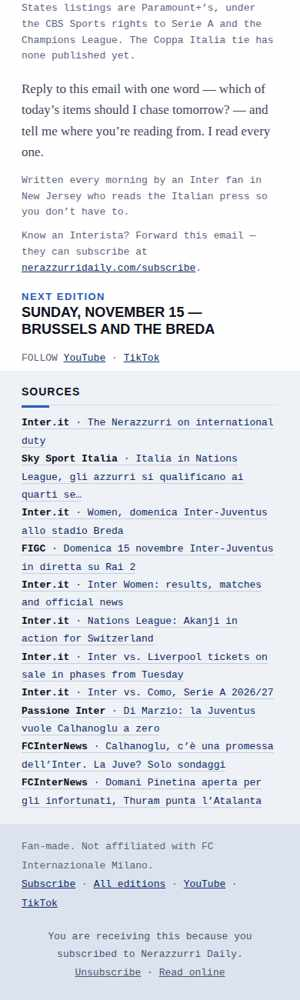
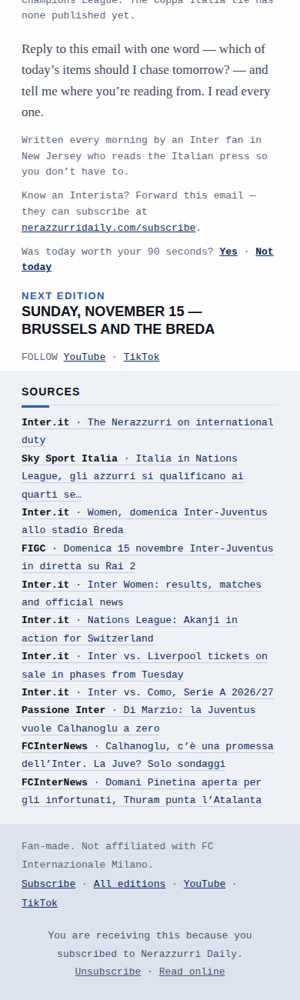
Edition No. 74 — Italy need only a draw in Brussels on Sunday
Built by the edition workflow, run 43667057809.

diff --git a/review/edition-74/email-74.html b/review/edition-74/email-74.html
@@ -6,7 +6,7 @@
 <div style="display:none;max-height:0;overflow:hidden;opacity:0;">Inter Women host Juventus at the Breda on Sunday with free entry and Rai 2 coverage, and Manuel Akanji&#x27;s draw in Maribor sent Switzerland up to League A.</div>
 <table role="presentation" width="100%" cellpadding="0" cellspacing="0" border="0" style="background:#DCE3EF;"><tr><td align="center" style="padding:0;">
 <table role="presentation" width="644" cellpadding="0" cellspacing="0" border="0" style="width:100%;max-width:644px;background:#ffffff;">
-<tr><td style="background:#06080F;padding:14px 28px;"><table role="presentation" width="100%" cellpadding="0" cellspacing="0" border="0"><tr><td style="font-family:Arial,Helvetica,sans-serif;font-weight:bold;font-size:17px;letter-spacing:.4px;color:#ffffff;">NERAZZURRI <span style="color:#8FB2F0;">DAILY</span></td><td align="right" style="font-family:'Courier New',Courier,monospace;font-size:13px;color:#8FB2F0;">Edition No. 74 · Sat, Nov 14 · <a href="https://www.nerazzurridaily.com/p/edition-74/" style="color:#ffffff;text-decoration:underline;">View online</a></td></tr></table></td></tr><tr><td style="padding:0;font-size:0;line-height:0;"><img src="https://www.nerazzurridaily.com/assets/mast/edition-74.png" width="644" alt="Nerazzurri Daily Edition No. 74, Saturday, November 14, 2026 — Italy need only a draw in Brussels on Sunday" style="display:block;width:100%;max-width:644px;height:auto;border:0;"></td></tr><tr><td style="background:#EEF1F6;padding:16px 28px;"><p style="margin:0px 0 10px;font-family:Georgia,'Times New Roman',serif;font-size:17px;line-height:1.6;color:#3D465C;font-weight:normal;">Italy finish their UEFA Nations League group <a href="https://www.inter.it/en/news/inter-players-international-duty-november-2026" rel="noopener">away to Belgium on Sunday night</a>, and four Inter players travel with them. <a href="https://sport.sky.it/calcio/nations-league/2026/11/12/italia-nations-league-qualificazione-quarti-se" rel="noopener">Sky Sport Italia</a> puts the group at Italy 10 points, France 10 and Belgium 9, with avoiding defeat enough for the quarter-finals. At home, Inter Women host Juventus on Sunday with the gates open, and tickets for <a href="https://www.inter.it/en/news/tickets-inter-liverpool-champions-league-2026-27" rel="noopener">Inter against Liverpool on January 19, 2027</a> go on sale Tuesday.</p></td></tr><tr><td style="background:#ffffff;padding:0 28px;"><table role="presentation" width="100%" cellpadding="0" cellspacing="0" border="0" style="margin:6px 0;"><tr><td style="padding:11px 0;border-bottom:1px solid #D8DFEC;"><div style="font-family:'Courier New',Courier,monospace;font-size:13px;letter-spacing:1px;color:#5A647E;">TODAY</div><div style="font-family:Arial,Helvetica,sans-serif;font-weight:bold;font-size:18px;color:#0B1020;line-height:1.2;margin:2px 0 3px;">No match</div><div style="font-family:'Courier New',Courier,monospace;font-size:13px;color:#3D465C;line-height:1.6;">NO&nbsp;INTER&nbsp;FIXTURE · INTERNATIONAL&nbsp;BREAK</div></td></tr><tr><td style="padding:11px 0;border-bottom:1px solid #D8DFEC;"><div style="font-family:'Courier New',Courier,monospace;font-size:13px;letter-spacing:1px;color:#5A647E;">LAST</div><div style="font-family:Arial,Helvetica,sans-serif;font-weight:bold;font-size:18px;color:#0B1020;line-height:1.2;margin:2px 0 3px;">Inter 2–0 Como</div><div style="font-family:'Courier New',Courier,monospace;font-size:13px;color:#3D465C;line-height:1.6;">SERIE&nbsp;A · MATCHDAY&nbsp;11 · SAN&nbsp;SIRO</div></td></tr><tr><td style="padding:11px 0;border-bottom:1px solid #D8DFEC;"><div style="font-family:'Courier New',Courier,monospace;font-size:13px;letter-spacing:1px;color:#5A647E;">NEXT</div><div style="font-family:Arial,Helvetica,sans-serif;font-weight:bold;font-size:18px;color:#0B1020;line-height:1.2;margin:2px 0 3px;">Atalanta <span style="display:inline-block;vertical-align:2px;margin-left:6px;padding:1px 5px 0;border:1px solid #C4CDDE;border-radius:3px;font-family:'Courier New',Courier,monospace;font-size:11px;letter-spacing:1px;color:#5A647E;">AWAY</span></div><div style="font-family:'Courier New',Courier,monospace;font-size:13px;color:#3D465C;line-height:1.6;">SUN,&nbsp;NOV&nbsp;22 · SERIE&nbsp;A · 2:45&nbsp;PM&nbsp;ET</div></td></tr></table></td></tr><tr><td style="height:18px;line-height:18px;font-size:0;">&nbsp;</td></tr><tr><td style="background:#2B5BB8;padding:8px 28px;"><span style="font-family:Arial,Helvetica,sans-serif;font-weight:bold;font-size:14px;color:#ffffff;letter-spacing:.5px;">CONFIRMED</span> <span style="font-family:'Courier New',Courier,monospace;font-size:13px;color:#DCE3EF;">· CLUB · LEAGUE · UEFA</span></td></tr><tr><td style="padding:14px 28px 0;background:#ffffff;"><table role="presentation" width="100%" cellpadding="0" cellspacing="0" border="0"><tr><td style="background:#EEF1F6;border-left:5px solid #2B5BB8;padding:2px 14px 6px;"><h3 style="margin:12px 0 6px;font-family:Arial,Helvetica,sans-serif;font-size:21px;font-weight:bold;color:#0B1020;line-height:1.25;">Italy's group comes down to Brussels</h3><p style="margin:0px 0 10px;font-family:Georgia,'Times New Roman',serif;font-size:17px;line-height:1.6;color:#3D465C;font-weight:normal;">Belgium host Italy on Sunday in the last match of the group. Kickoff is 2:45 PM ET, 20:45 CET, in Brussels.</p><p style="margin:0px 0 10px;font-family:Georgia,'Times New Roman',serif;font-size:17px;line-height:1.6;color:#3D465C;font-weight:normal;">Four Inter players are in the squad: the midfielder Nicolò Barella, the defenders Alessandro Bastoni and Federico Dimarco, and the forward Francesco Pio Esposito.</p><p style="margin:0px 0 2px;font-family:'Courier New',Courier,monospace;font-size:13px;line-height:1.5;color:#2B5BB8;font-weight:bold;">INTER.IT · NOV 11</p></td></tr></table></td></tr><tr><td style="padding:14px 28px 0;background:#ffffff;"><table role="presentation" width="100%" cellpadding="0" cellspacing="0" border="0"><tr><td style="background:#EEF1F6;border-left:5px solid #2B5BB8;padding:2px 14px 6px;"><h3 style="margin:12px 0 6px;font-family:Arial,Helvetica,sans-serif;font-size:21px;font-weight:bold;color:#0B1020;line-height:1.25;">Inter Women host Juventus with the gates open</h3><p style="margin:0px 0 10px;font-family:Georgia,'Times New Roman',serif;font-size:17px;line-height:1.6;color:#3D465C;font-weight:normal;">Inter Women play Juventus on Sunday at 9:00 AM ET, 15:00 CET, in matchday 7 of Serie A Women.</p><p style="margin:0px 0 10px;font-family:Georgia,'Times New Roman',serif;font-size:17px;line-height:1.6;color:#3D465C;font-weight:normal;">The match moves to the Stadio Ernesto Breda in Sesto San Giovanni, not the usual Arena Civica. Entry is free. Rai 2 shows it in Italy, and no United States listing has been published.</p><p style="margin:0px 0 2px;font-family:'Courier New',Courier,monospace;font-size:13px;line-height:1.5;color:#2B5BB8;font-weight:bold;">INTER.IT · FIGC · NOV 14</p></td></tr></table></td></tr><tr><td style="padding:14px 28px 0;background:#ffffff;"><table role="presentation" width="100%" cellpadding="0" cellspacing="0" border="0"><tr><td style="background:#EEF1F6;border-left:5px solid #2B5BB8;padding:2px 14px 6px;"><h3 style="margin:12px 0 6px;font-family:Arial,Helvetica,sans-serif;font-size:21px;font-weight:bold;color:#0B1020;line-height:1.25;">Akanji plays 90 minutes as Switzerland go up</h3><p style="margin:0px 0 10px;font-family:Georgia,'Times New Roman',serif;font-size:17px;line-height:1.6;color:#3D465C;font-weight:normal;">The defender Manuel Akanji played all 90 minutes of Switzerland’s 0–0 draw with Slovenia in Maribor on Friday. The point left Switzerland top of League B Group 1 with 13 points and promoted to League A.</p><p style="margin:0px 0 10px;font-family:Georgia,'Times New Roman',serif;font-size:17px;line-height:1.6;color:#3D465C;font-weight:normal;">Two more Inter players are in action today. The defender Carlos Augusto is with Brazil against Japan in Singapore. The midfielder Piotr Zieliński is with Poland away to Romania at 2:45 PM ET, 20:45 CET.</p><p style="margin:0px 0 2px;font-family:'Courier New',Courier,monospace;font-size:13px;line-height:1.5;color:#2B5BB8;font-weight:bold;">INTER.IT · NOV 13</p></td></tr></table></td></tr><tr><td style="height:18px;line-height:18px;font-size:0;">&nbsp;</td></tr><tr><td style="background:#8C4034;padding:8px 28px;"><span style="font-family:Arial,Helvetica,sans-serif;font-weight:bold;font-size:14px;color:#ffffff;letter-spacing:.5px;">REPORTED</span> <span style="font-family:'Courier New',Courier,monospace;font-size:13px;color:#DCE3EF;">· PRESS ONLY · NOT YET OFFICIAL</span></td></tr><tr><td style="padding:14px 28px 0;background:#ffffff;"><table role="presentation" width="100%" cellpadding="0" cellspacing="0" border="0"><tr><td style="background:#FBEAE7;border-left:5px solid #E7B4AE;padding:2px 14px 6px;"><h3 style="margin:12px 0 6px;font-family:Arial,Helvetica,sans-serif;font-size:21px;font-weight:bold;color:#0B1020;line-height:1.25;">Two readings of where Çalhanoğlu's renewal stands</h3><p style="margin:0px 0 10px;font-family:Georgia,'Times New Roman',serif;font-size:17px;line-height:1.6;color:#3D465C;font-weight:normal;">Sky Sport Italia’s market reporter Gianluca Di Marzio said on Tuesday that renewing the Türkiye midfielder Hakan Çalhanoğlu is Inter’s priority. His contract runs out in June, and the report has Juventus ready to sign him on a free transfer.</p><p style="margin:0px 0 10px;font-family:Georgia,'Times New Roman',serif;font-size:17px;line-height:1.6;color:#3D465C;font-weight:normal;">FCInterNews put it differently on Friday night. Inter have promised Çalhanoğlu and his agents another meeting, and he gives Inter priority. Juventus only made a few phone calls early this year, and never put an offer in writing. The same report expects Carlos Augusto to re-sign before Christmas.</p><p style="margin:0px 0 2px;font-family:'Courier New',Courier,monospace;font-size:13px;line-height:1.5;color:#8C4034;font-weight:bold;">SKY SPORT ITALIA · FCINTERNEWS · NOV 13</p></td></tr></table></td></tr><tr><td style="padding:14px 28px 0;background:#ffffff;"><table role="presentation" width="100%" cellpadding="0" cellspacing="0" border="0"><tr><td style="background:#FBEAE7;border-left:5px solid #E7B4AE;padding:2px 14px 6px;"><h3 style="margin:12px 0 6px;font-family:Arial,Helvetica,sans-serif;font-size:21px;font-weight:bold;color:#0B1020;line-height:1.25;">Thuram is said to be aiming at Bergamo</h3><p style="margin:0px 0 10px;font-family:Georgia,'Times New Roman',serif;font-size:17px;line-height:1.6;color:#3D465C;font-weight:normal;">FCInterNews reported four injured players at Appiano Gentile, Inter’s training ground, on Saturday for solo work. They are the forwards Lautaro Martínez, Marcus Thuram and Ange-Yoan Bonny, and the midfielder Aleksandar Stanković.</p><p style="margin:0px 0 10px;font-family:Georgia,'Times New Roman',serif;font-size:17px;line-height:1.6;color:#3D465C;font-weight:normal;">Thuram picked up what Italian reports call affaticamento muscolare — a tired muscle, not a tear — in the Como match. He is expected back with the group next week and available for the Atalanta match.</p><p style="margin:0px 0 10px;font-family:Georgia,'Times New Roman',serif;font-size:17px;line-height:1.6;color:#3D465C;font-weight:normal;">Lautaro Martínez could make the bench in Bergamo. Bonny and Stanković are each said to be out about a month.</p><p style="margin:0px 0 2px;font-family:'Courier New',Courier,monospace;font-size:13px;line-height:1.5;color:#8C4034;font-weight:bold;">FCINTERNEWS · NOV 13</p></td></tr></table></td></tr><tr><td style="padding:24px 28px 0;background:#ffffff;"><table role="presentation" width="100%" cellpadding="0" cellspacing="0" border="0"><tr><td style="padding:0 0 8px;border-bottom:1px solid #D8DFEC;"><span style="font-family:Arial,Helvetica,sans-serif;font-weight:bold;font-size:14px;letter-spacing:1px;color:#0B1020;">LATEST RESULT</span> &nbsp;<span style="font-family:'Courier New',Courier,monospace;font-size:13px;color:#5A647E;">SERIE A · MATCHDAY 11 · SAN SIRO</span></td></tr><tr><td style="padding:0;font-size:0;line-height:0;height:3px;"><table role="presentation" cellpadding="0" cellspacing="0" border="0"><tr><td width="36" height="3" style="background:#2B5BB8;font-size:0;line-height:0;">&nbsp;</td></tr></table></td></tr></table></td></tr><tr><td style="padding:14px 28px 0;background:#ffffff;"><table role="presentation" width="100%" cellpadding="0" cellspacing="0" border="0"><tr><td style="background:#EEF1F6;border-left:5px solid #2B5BB8;padding:2px 14px 6px;"><h3 style="margin:12px 0 6px;font-family:Arial,Helvetica,sans-serif;font-size:21px;font-weight:bold;color:#0B1020;line-height:1.25;">Inter 2–0 Como</h3><p style="margin:0px 0 10px;font-family:Georgia,'Times New Roman',serif;font-size:17px;line-height:1.6;color:#3D465C;font-weight:normal;">PIO ESPOSITO 12′ · THURAM 19′</p><p style="margin:0px 0 2px;font-family:'Courier New',Courier,monospace;font-size:13px;line-height:1.5;color:#2B5BB8;font-weight:bold;">SERIE A FORM · 28 POINTS FROM 11 · ONE POINT BEHIND LAZIO</p></td></tr></table></td></tr><tr><td style="padding:24px 28px 0;background:#ffffff;"><table role="presentation" width="100%" cellpadding="0" cellspacing="0" border="0"><tr><td style="padding:0 0 8px;border-bottom:1px solid #D8DFEC;"><span style="font-family:Arial,Helvetica,sans-serif;font-weight:bold;font-size:14px;letter-spacing:1px;color:#0B1020;">NEXT UP</span> &nbsp;<span style="font-family:'Courier New',Courier,monospace;font-size:13px;color:#5A647E;">NOVEMBER AND INTO DECEMBER · EASTERN TIME FIRST, MILAN SECOND</span></td></tr><tr><td style="padding:0;font-size:0;line-height:0;height:3px;"><table role="presentation" cellpadding="0" cellspacing="0" border="0"><tr><td width="36" height="3" style="background:#2B5BB8;font-size:0;line-height:0;">&nbsp;</td></tr></table></td></tr></table></td></tr><tr><td style="background:#ffffff;padding:0 28px;"><table role="presentation" width="100%" cellpadding="0" cellspacing="0" border="0" style="margin:6px 0;"><tr><td style="padding:11px 0;border-bottom:1px solid #D8DFEC;"><div style="font-family:Arial,Helvetica,sans-serif;font-weight:bold;font-size:18px;color:#0B1020;line-height:1.2;margin:0 0 3px;">Atalanta <span style="display:inline-block;vertical-align:2px;margin-left:6px;padding:1px 5px 0;border:1px solid #C4CDDE;border-radius:3px;font-family:'Courier New',Courier,monospace;font-size:11px;letter-spacing:1px;color:#5A647E;">AWAY</span></div><div style="font-family:'Courier New',Courier,monospace;font-size:13px;color:#5A647E;line-height:1.6;">SUN,&nbsp;NOV&nbsp;22 · SERIE&nbsp;A · MATCHDAY&nbsp;12</div><div style="font-family:'Courier New',Courier,monospace;font-size:13px;color:#3D465C;line-height:1.6;"><b style='color:#0B1020'>2:45&nbsp;PM&nbsp;ET</b> · 20:45&nbsp;CET · US&nbsp;TV:&nbsp;PARAMOUNT+</div></td></tr><tr><td style="padding:11px 0;border-bottom:1px solid #D8DFEC;"><div style="font-family:Arial,Helvetica,sans-serif;font-weight:bold;font-size:18px;color:#0B1020;line-height:1.2;margin:0 0 3px;">VfB Stuttgart <span style="display:inline-block;vertical-align:2px;margin-left:6px;padding:1px 5px 0;border:1px solid #C4CDDE;border-radius:3px;font-family:'Courier New',Courier,monospace;font-size:11px;letter-spacing:1px;color:#5A647E;">HOME</span></div><div style="font-family:'Courier New',Courier,monospace;font-size:13px;color:#5A647E;line-height:1.6;">WED,&nbsp;NOV&nbsp;25 · CHAMPIONS&nbsp;LEAGUE · MATCHDAY&nbsp;5</div><div style="font-family:'Courier New',Courier,monospace;font-size:13px;color:#3D465C;line-height:1.6;"><b style='color:#0B1020'>3:00&nbsp;PM&nbsp;ET</b> · 21:00&nbsp;CET · US&nbsp;TV:&nbsp;PARAMOUNT+</div></td></tr><tr><td style="padding:11px 0;border-bottom:1px solid #D8DFEC;"><div style="font-family:Arial,Helvetica,sans-serif;font-weight:bold;font-size:18px;color:#0B1020;line-height:1.2;margin:0 0 3px;">Genoa <span style="display:inline-block;vertical-align:2px;margin-left:6px;padding:1px 5px 0;border:1px solid #C4CDDE;border-radius:3px;font-family:'Courier New',Courier,monospace;font-size:11px;letter-spacing:1px;color:#5A647E;">HOME</span></div><div style="font-family:'Courier New',Courier,monospace;font-size:13px;color:#5A647E;line-height:1.6;">SAT,&nbsp;NOV&nbsp;28 · SERIE&nbsp;A · MATCHDAY&nbsp;13</div><div style="font-family:'Courier New',Courier,monospace;font-size:13px;color:#3D465C;line-height:1.6;"><b style='color:#0B1020'>2:45&nbsp;PM&nbsp;ET</b> · 20:45&nbsp;CET · US&nbsp;TV:&nbsp;PARAMOUNT+</div></td></tr><tr><td style="padding:11px 0;border-bottom:1px solid #D8DFEC;"><div style="font-family:Arial,Helvetica,sans-serif;font-weight:bold;font-size:18px;color:#0B1020;line-height:1.2;margin:0 0 3px;">Genoa <span style="display:inline-block;vertical-align:2px;margin-left:6px;padding:1px 5px 0;border:1px solid #C4CDDE;border-radius:3px;font-family:'Courier New',Courier,monospace;font-size:11px;letter-spacing:1px;color:#5A647E;">HOME</span></div><div style="font-family:'Courier New',Courier,monospace;font-size:13px;color:#5A647E;line-height:1.6;">TUE,&nbsp;DEC&nbsp;1 · COPPA&nbsp;ITALIA · ROUND&nbsp;OF&nbsp;16</div><div style="font-family:'Courier New',Courier,monospace;font-size:13px;color:#3D465C;line-height:1.6;"><b style='color:#0B1020'>3:00&nbsp;PM&nbsp;ET</b> · 21:00&nbsp;CET · US&nbsp;TV:&nbsp;NOT&nbsp;YET&nbsp;PUBLISHED</div></td></tr><tr><td style="padding:11px 0;border-bottom:1px solid #D8DFEC;"><div style="font-family:Arial,Helvetica,sans-serif;font-weight:bold;font-size:18px;color:#0B1020;line-height:1.2;margin:0 0 3px;">Frosinone <span style="display:inline-block;vertical-align:2px;margin-left:6px;padding:1px 5px 0;border:1px solid #C4CDDE;border-radius:3px;font-family:'Courier New',Courier,monospace;font-size:11px;letter-spacing:1px;color:#5A647E;">AWAY</span></div><div style="font-family:'Courier New',Courier,monospace;font-size:13px;color:#5A647E;line-height:1.6;">SAT,&nbsp;DEC&nbsp;5 · SERIE&nbsp;A · MATCHDAY&nbsp;14</div><div style="font-family:'Courier New',Courier,monospace;font-size:13px;color:#3D465C;line-height:1.6;"><b style='color:#0B1020'>12:00&nbsp;PM&nbsp;ET</b> · 18:00&nbsp;CET · US&nbsp;TV:&nbsp;PARAMOUNT+</div></td></tr><tr><td style="padding:11px 0;border-bottom:1px solid #D8DFEC;"><div style="font-family:Arial,Helvetica,sans-serif;font-weight:bold;font-size:18px;color:#0B1020;line-height:1.2;margin:0 0 3px;">Borussia Dortmund <span style="display:inline-block;vertical-align:2px;margin-left:6px;padding:1px 5px 0;border:1px solid #C4CDDE;border-radius:3px;font-family:'Courier New',Courier,monospace;font-size:11px;letter-spacing:1px;color:#5A647E;">AWAY</span></div><div style="font-family:'Courier New',Courier,monospace;font-size:13px;color:#5A647E;line-height:1.6;">WED,&nbsp;DEC&nbsp;9 · CHAMPIONS&nbsp;LEAGUE · MATCHDAY&nbsp;6</div><div style="font-family:'Courier New',Courier,monospace;font-size:13px;color:#3D465C;line-height:1.6;"><b style='color:#0B1020'>3:00&nbsp;PM&nbsp;ET</b> · 21:00&nbsp;CET · US&nbsp;TV:&nbsp;PARAMOUNT+</div></td></tr></table></td></tr><tr><td style="background:#ffffff;padding:4px 28px 6px;"><p style="margin:8px 0 0px;font-family:'Courier New',Courier,monospace;font-size:13px;line-height:1.6;color:#5A647E;font-weight:normal;">Kickoff times are the club’s, converted from Milan time on each match date. United States listings are Paramount+’s, under the CBS Sports rights to Serie A and the Champions League. The Coppa Italia tie has none published yet.</p><p style="margin:18px 0 0px;font-family:Georgia,'Times New Roman',serif;font-size:17px;line-height:1.6;color:#3D465C;font-weight:normal;">Reply to this email with one word — which of today’s items should I chase tomorrow? — and tell me where you’re reading from. I read every one.</p><p style="margin:14px 0 0px;font-family:'Courier New',Courier,monospace;font-size:13px;line-height:1.6;color:#5A647E;font-weight:normal;">Written every morning by an Inter fan in New Jersey who reads the Italian press so you don’t have to.</p><p style="margin:10px 0 0px;font-family:'Courier New',Courier,monospace;font-size:13px;line-height:1.6;color:#5A647E;font-weight:normal;">Know an Interista? Forward this email — they can subscribe at <a href="https://www.nerazzurridaily.com/go/forward/?ed=74" style="color:#0A2A66;">nerazzurridaily.com/subscribe</a>.</p><div style="margin-top:18px;"><div style="font-family:Arial,Helvetica,sans-serif;font-size:13px;font-weight:bold;letter-spacing:1.5px;color:#2B5BB8;margin-bottom:2px;">NEXT EDITION</div><div style="font-family:Arial,Helvetica,sans-serif;font-weight:bold;font-size:18px;color:#0B1020;line-height:1.25;">SUNDAY, NOVEMBER 15 — BRUSSELS AND THE BREDA</div></div><p style="margin:16px 0 0px;font-family:'Courier New',Courier,monospace;font-size:13px;line-height:1.6;color:#5A647E;font-weight:normal;">FOLLOW <a href="https://www.youtube.com/@nerazzurridaily" style="color:#0A2A66;">YouTube</a> · <a href="https://www.tiktok.com/@nerazzurridaily" style="color:#0A2A66;">TikTok</a></p></td></tr><tr><td style="background:#EEF1F6;padding:2px 28px 18px;margin-top:22px;"><table role="presentation" width="100%" cellpadding="0" cellspacing="0" border="0"><tr><td style="padding:16px 0 8px;border-bottom:1px solid #D8DFEC;"><span style="font-family:Arial,Helvetica,sans-serif;font-weight:bold;font-size:14px;letter-spacing:1px;color:#0B1020;">SOURCES</span></td></tr><tr><td style="padding:0;font-size:0;line-height:0;height:3px;"><table role="presentation" cellpadding="0" cellspacing="0" border="0"><tr><td width="36" height="3" style="background:#2B5BB8;font-size:0;line-height:0;">&nbsp;</td></tr></table></td></tr></table><p style="margin:8px 0 0px;font-family:'Courier New',Courier,monospace;font-size:13px;line-height:1.8;color:#3D465C;font-weight:normal;"><a href="https://www.inter.it/en/news/inter-players-international-duty-november-2026" style="color:#0A2A66;text-decoration:none;border-bottom:1px solid #C4CDDE;"><b style="color:#0B1020;">Inter.it</b> · The Nerazzurri on international duty</a><br>
+<tr><td style="background:#06080F;padding:14px 28px;"><table role="presentation" width="100%" cellpadding="0" cellspacing="0" border="0"><tr><td style="font-family:Arial,Helvetica,sans-serif;font-weight:bold;font-size:17px;letter-spacing:.4px;color:#ffffff;">NERAZZURRI <span style="color:#8FB2F0;">DAILY</span></td><td align="right" style="font-family:'Courier New',Courier,monospace;font-size:13px;color:#8FB2F0;">Edition No. 74 · Sat, Nov 14 · <a href="https://www.nerazzurridaily.com/p/edition-74/" style="color:#ffffff;text-decoration:underline;">View online</a></td></tr></table></td></tr><tr><td style="padding:0;font-size:0;line-height:0;"><img src="https://www.nerazzurridaily.com/assets/mast/edition-74.png" width="644" alt="Nerazzurri Daily Edition No. 74, Saturday, November 14, 2026 — Italy need only a draw in Brussels on Sunday" style="display:block;width:100%;max-width:644px;height:auto;border:0;"></td></tr><tr><td style="background:#EEF1F6;padding:16px 28px;"><p style="margin:0px 0 10px;font-family:Georgia,'Times New Roman',serif;font-size:17px;line-height:1.6;color:#3D465C;font-weight:normal;">Italy finish their UEFA Nations League group <a href="https://www.inter.it/en/news/inter-players-international-duty-november-2026" rel="noopener">away to Belgium on Sunday night</a>, and four Inter players travel with them. <a href="https://sport.sky.it/calcio/nations-league/2026/11/12/italia-nations-league-qualificazione-quarti-se" rel="noopener">Sky Sport Italia</a> puts the group at Italy 10 points, France 10 and Belgium 9, with avoiding defeat enough for the quarter-finals. At home, Inter Women host Juventus on Sunday with the gates open, and tickets for <a href="https://www.inter.it/en/news/tickets-inter-liverpool-champions-league-2026-27" rel="noopener">Inter against Liverpool on January 19, 2027</a> go on sale Tuesday.</p></td></tr><tr><td style="background:#ffffff;padding:0 28px;"><table role="presentation" width="100%" cellpadding="0" cellspacing="0" border="0" style="margin:6px 0;"><tr><td style="padding:11px 0;border-bottom:1px solid #D8DFEC;"><div style="font-family:'Courier New',Courier,monospace;font-size:13px;letter-spacing:1px;color:#5A647E;">TODAY</div><div style="font-family:Arial,Helvetica,sans-serif;font-weight:bold;font-size:18px;color:#0B1020;line-height:1.2;margin:2px 0 3px;">No match</div><div style="font-family:'Courier New',Courier,monospace;font-size:13px;color:#3D465C;line-height:1.6;">NO&nbsp;INTER&nbsp;FIXTURE · INTERNATIONAL&nbsp;BREAK</div></td></tr><tr><td style="padding:11px 0;border-bottom:1px solid #D8DFEC;"><div style="font-family:'Courier New',Courier,monospace;font-size:13px;letter-spacing:1px;color:#5A647E;">LAST</div><div style="font-family:Arial,Helvetica,sans-serif;font-weight:bold;font-size:18px;color:#0B1020;line-height:1.2;margin:2px 0 3px;">Inter 2–0 Como</div><div style="font-family:'Courier New',Courier,monospace;font-size:13px;color:#3D465C;line-height:1.6;">SERIE&nbsp;A · MATCHDAY&nbsp;11 · SAN&nbsp;SIRO</div></td></tr><tr><td style="padding:11px 0;border-bottom:1px solid #D8DFEC;"><div style="font-family:'Courier New',Courier,monospace;font-size:13px;letter-spacing:1px;color:#5A647E;">NEXT</div><div style="font-family:Arial,Helvetica,sans-serif;font-weight:bold;font-size:18px;color:#0B1020;line-height:1.2;margin:2px 0 3px;">Atalanta <span style="display:inline-block;vertical-align:2px;margin-left:6px;padding:1px 5px 0;border:1px solid #C4CDDE;border-radius:3px;font-family:'Courier New',Courier,monospace;font-size:11px;letter-spacing:1px;color:#5A647E;">AWAY</span></div><div style="font-family:'Courier New',Courier,monospace;font-size:13px;color:#3D465C;line-height:1.6;">SUN,&nbsp;NOV&nbsp;22 · SERIE&nbsp;A · 2:45&nbsp;PM&nbsp;ET</div></td></tr></table></td></tr><tr><td style="height:18px;line-height:18px;font-size:0;">&nbsp;</td></tr><tr><td style="background:#2B5BB8;padding:8px 28px;"><span style="font-family:Arial,Helvetica,sans-serif;font-weight:bold;font-size:14px;color:#ffffff;letter-spacing:.5px;">CONFIRMED</span> <span style="font-family:'Courier New',Courier,monospace;font-size:13px;color:#DCE3EF;">· CLUB · LEAGUE · UEFA</span></td></tr><tr><td style="padding:14px 28px 0;background:#ffffff;"><table role="presentation" width="100%" cellpadding="0" cellspacing="0" border="0"><tr><td style="background:#EEF1F6;border-left:5px solid #2B5BB8;padding:2px 14px 6px;"><h3 style="margin:12px 0 6px;font-family:Arial,Helvetica,sans-serif;font-size:21px;font-weight:bold;color:#0B1020;line-height:1.25;">Italy's group comes down to Brussels</h3><p style="margin:0px 0 10px;font-family:Georgia,'Times New Roman',serif;font-size:17px;line-height:1.6;color:#3D465C;font-weight:normal;">Belgium host Italy on Sunday in the last match of the group. Kickoff is 2:45 PM ET, 20:45 CET, in Brussels.</p><p style="margin:0px 0 10px;font-family:Georgia,'Times New Roman',serif;font-size:17px;line-height:1.6;color:#3D465C;font-weight:normal;">Four Inter players are in the squad: the midfielder Nicolò Barella, the defenders Alessandro Bastoni and Federico Dimarco, and the forward Francesco Pio Esposito.</p><p style="margin:0px 0 2px;font-family:'Courier New',Courier,monospace;font-size:13px;line-height:1.5;color:#2B5BB8;font-weight:bold;">INTER.IT · NOV 11</p></td></tr></table></td></tr><tr><td style="padding:14px 28px 0;background:#ffffff;"><table role="presentation" width="100%" cellpadding="0" cellspacing="0" border="0"><tr><td style="background:#EEF1F6;border-left:5px solid #2B5BB8;padding:2px 14px 6px;"><h3 style="margin:12px 0 6px;font-family:Arial,Helvetica,sans-serif;font-size:21px;font-weight:bold;color:#0B1020;line-height:1.25;">Inter Women host Juventus with the gates open</h3><p style="margin:0px 0 10px;font-family:Georgia,'Times New Roman',serif;font-size:17px;line-height:1.6;color:#3D465C;font-weight:normal;">Inter Women play Juventus on Sunday at 9:00 AM ET, 15:00 CET, in matchday 7 of Serie A Women.</p><p style="margin:0px 0 10px;font-family:Georgia,'Times New Roman',serif;font-size:17px;line-height:1.6;color:#3D465C;font-weight:normal;">The match moves to the Stadio Ernesto Breda in Sesto San Giovanni, not the usual Arena Civica. Entry is free. Rai 2 shows it in Italy, and no United States listing has been published.</p><p style="margin:0px 0 2px;font-family:'Courier New',Courier,monospace;font-size:13px;line-height:1.5;color:#2B5BB8;font-weight:bold;">INTER.IT · FIGC · NOV 14</p></td></tr></table></td></tr><tr><td style="padding:14px 28px 0;background:#ffffff;"><table role="presentation" width="100%" cellpadding="0" cellspacing="0" border="0"><tr><td style="background:#EEF1F6;border-left:5px solid #2B5BB8;padding:2px 14px 6px;"><h3 style="margin:12px 0 6px;font-family:Arial,Helvetica,sans-serif;font-size:21px;font-weight:bold;color:#0B1020;line-height:1.25;">Akanji plays 90 minutes as Switzerland go up</h3><p style="margin:0px 0 10px;font-family:Georgia,'Times New Roman',serif;font-size:17px;line-height:1.6;color:#3D465C;font-weight:normal;">The defender Manuel Akanji played all 90 minutes of Switzerland’s 0–0 draw with Slovenia in Maribor on Friday. The point left Switzerland top of League B Group 1 with 13 points and promoted to League A.</p><p style="margin:0px 0 10px;font-family:Georgia,'Times New Roman',serif;font-size:17px;line-height:1.6;color:#3D465C;font-weight:normal;">Two more Inter players are in action today. The defender Carlos Augusto is with Brazil against Japan in Singapore. The midfielder Piotr Zieliński is with Poland away to Romania at 2:45 PM ET, 20:45 CET.</p><p style="margin:0px 0 2px;font-family:'Courier New',Courier,monospace;font-size:13px;line-height:1.5;color:#2B5BB8;font-weight:bold;">INTER.IT · NOV 13</p></td></tr></table></td></tr><tr><td style="height:18px;line-height:18px;font-size:0;">&nbsp;</td></tr><tr><td style="background:#8C4034;padding:8px 28px;"><span style="font-family:Arial,Helvetica,sans-serif;font-weight:bold;font-size:14px;color:#ffffff;letter-spacing:.5px;">REPORTED</span> <span style="font-family:'Courier New',Courier,monospace;font-size:13px;color:#DCE3EF;">· PRESS ONLY · NOT YET OFFICIAL</span></td></tr><tr><td style="padding:14px 28px 0;background:#ffffff;"><table role="presentation" width="100%" cellpadding="0" cellspacing="0" border="0"><tr><td style="background:#FBEAE7;border-left:5px solid #E7B4AE;padding:2px 14px 6px;"><h3 style="margin:12px 0 6px;font-family:Arial,Helvetica,sans-serif;font-size:21px;font-weight:bold;color:#0B1020;line-height:1.25;">Two readings of where Çalhanoğlu's renewal stands</h3><p style="margin:0px 0 10px;font-family:Georgia,'Times New Roman',serif;font-size:17px;line-height:1.6;color:#3D465C;font-weight:normal;">Sky Sport Italia’s market reporter Gianluca Di Marzio said on Tuesday that renewing the Türkiye midfielder Hakan Çalhanoğlu is Inter’s priority. His contract runs out in June, and the report has Juventus ready to sign him on a free transfer.</p><p style="margin:0px 0 10px;font-family:Georgia,'Times New Roman',serif;font-size:17px;line-height:1.6;color:#3D465C;font-weight:normal;">FCInterNews put it differently on Friday night. Inter have promised Çalhanoğlu and his agents another meeting, and he gives Inter priority. Juventus only made a few phone calls early this year, and never put an offer in writing. The same report expects Carlos Augusto to re-sign before Christmas.</p><p style="margin:0px 0 2px;font-family:'Courier New',Courier,monospace;font-size:13px;line-height:1.5;color:#8C4034;font-weight:bold;">SKY SPORT ITALIA · FCINTERNEWS · NOV 13</p></td></tr></table></td></tr><tr><td style="padding:14px 28px 0;background:#ffffff;"><table role="presentation" width="100%" cellpadding="0" cellspacing="0" border="0"><tr><td style="background:#FBEAE7;border-left:5px solid #E7B4AE;padding:2px 14px 6px;"><h3 style="margin:12px 0 6px;font-family:Arial,Helvetica,sans-serif;font-size:21px;font-weight:bold;color:#0B1020;line-height:1.25;">Thuram is said to be aiming at Bergamo</h3><p style="margin:0px 0 10px;font-family:Georgia,'Times New Roman',serif;font-size:17px;line-height:1.6;color:#3D465C;font-weight:normal;">FCInterNews reported four injured players at Appiano Gentile, Inter’s training ground, on Saturday for solo work. They are the forwards Lautaro Martínez, Marcus Thuram and Ange-Yoan Bonny, and the midfielder Aleksandar Stanković.</p><p style="margin:0px 0 10px;font-family:Georgia,'Times New Roman',serif;font-size:17px;line-height:1.6;color:#3D465C;font-weight:normal;">Thuram picked up what Italian reports call affaticamento muscolare — a tired muscle, not a tear — in the Como match. He is expected back with the group next week and available for the Atalanta match.</p><p style="margin:0px 0 10px;font-family:Georgia,'Times New Roman',serif;font-size:17px;line-height:1.6;color:#3D465C;font-weight:normal;">Lautaro Martínez could make the bench in Bergamo. Bonny and Stanković are each said to be out about a month.</p><p style="margin:0px 0 2px;font-family:'Courier New',Courier,monospace;font-size:13px;line-height:1.5;color:#8C4034;font-weight:bold;">FCINTERNEWS · NOV 13</p></td></tr></table></td></tr><tr><td style="padding:24px 28px 0;background:#ffffff;"><table role="presentation" width="100%" cellpadding="0" cellspacing="0" border="0"><tr><td style="padding:0 0 8px;border-bottom:1px solid #D8DFEC;"><span style="font-family:Arial,Helvetica,sans-serif;font-weight:bold;font-size:14px;letter-spacing:1px;color:#0B1020;">LATEST RESULT</span> &nbsp;<span style="font-family:'Courier New',Courier,monospace;font-size:13px;color:#5A647E;">SERIE A · MATCHDAY 11 · SAN SIRO</span></td></tr><tr><td style="padding:0;font-size:0;line-height:0;height:3px;"><table role="presentation" cellpadding="0" cellspacing="0" border="0"><tr><td width="36" height="3" style="background:#2B5BB8;font-size:0;line-height:0;">&nbsp;</td></tr></table></td></tr></table></td></tr><tr><td style="padding:14px 28px 0;background:#ffffff;"><table role="presentation" width="100%" cellpadding="0" cellspacing="0" border="0"><tr><td style="background:#EEF1F6;border-left:5px solid #2B5BB8;padding:2px 14px 6px;"><h3 style="margin:12px 0 6px;font-family:Arial,Helvetica,sans-serif;font-size:21px;font-weight:bold;color:#0B1020;line-height:1.25;">Inter 2–0 Como</h3><p style="margin:0px 0 10px;font-family:Georgia,'Times New Roman',serif;font-size:17px;line-height:1.6;color:#3D465C;font-weight:normal;">PIO ESPOSITO 12′ · THURAM 19′</p><p style="margin:0px 0 2px;font-family:'Courier New',Courier,monospace;font-size:13px;line-height:1.5;color:#2B5BB8;font-weight:bold;">SERIE A FORM · 28 POINTS FROM 11 · ONE POINT BEHIND LAZIO</p></td></tr></table></td></tr><tr><td style="padding:24px 28px 0;background:#ffffff;"><table role="presentation" width="100%" cellpadding="0" cellspacing="0" border="0"><tr><td style="padding:0 0 8px;border-bottom:1px solid #D8DFEC;"><span style="font-family:Arial,Helvetica,sans-serif;font-weight:bold;font-size:14px;letter-spacing:1px;color:#0B1020;">NEXT UP</span> &nbsp;<span style="font-family:'Courier New',Courier,monospace;font-size:13px;color:#5A647E;">NOVEMBER AND INTO DECEMBER · EASTERN TIME FIRST, MILAN SECOND</span></td></tr><tr><td style="padding:0;font-size:0;line-height:0;height:3px;"><table role="presentation" cellpadding="0" cellspacing="0" border="0"><tr><td width="36" height="3" style="background:#2B5BB8;font-size:0;line-height:0;">&nbsp;</td></tr></table></td></tr></table></td></tr><tr><td style="background:#ffffff;padding:0 28px;"><table role="presentation" width="100%" cellpadding="0" cellspacing="0" border="0" style="margin:6px 0;"><tr><td style="padding:11px 0;border-bottom:1px solid #D8DFEC;"><div style="font-family:Arial,Helvetica,sans-serif;font-weight:bold;font-size:18px;color:#0B1020;line-height:1.2;margin:0 0 3px;">Atalanta <span style="display:inline-block;vertical-align:2px;margin-left:6px;padding:1px 5px 0;border:1px solid #C4CDDE;border-radius:3px;font-family:'Courier New',Courier,monospace;font-size:11px;letter-spacing:1px;color:#5A647E;">AWAY</span></div><div style="font-family:'Courier New',Courier,monospace;font-size:13px;color:#5A647E;line-height:1.6;">SUN,&nbsp;NOV&nbsp;22 · SERIE&nbsp;A · MATCHDAY&nbsp;12</div><div style="font-family:'Courier New',Courier,monospace;font-size:13px;color:#3D465C;line-height:1.6;"><b style='color:#0B1020'>2:45&nbsp;PM&nbsp;ET</b> · 20:45&nbsp;CET · US&nbsp;TV:&nbsp;PARAMOUNT+</div></td></tr><tr><td style="padding:11px 0;border-bottom:1px solid #D8DFEC;"><div style="font-family:Arial,Helvetica,sans-serif;font-weight:bold;font-size:18px;color:#0B1020;line-height:1.2;margin:0 0 3px;">VfB Stuttgart <span style="display:inline-block;vertical-align:2px;margin-left:6px;padding:1px 5px 0;border:1px solid #C4CDDE;border-radius:3px;font-family:'Courier New',Courier,monospace;font-size:11px;letter-spacing:1px;color:#5A647E;">HOME</span></div><div style="font-family:'Courier New',Courier,monospace;font-size:13px;color:#5A647E;line-height:1.6;">WED,&nbsp;NOV&nbsp;25 · CHAMPIONS&nbsp;LEAGUE · MATCHDAY&nbsp;5</div><div style="font-family:'Courier New',Courier,monospace;font-size:13px;color:#3D465C;line-height:1.6;"><b style='color:#0B1020'>3:00&nbsp;PM&nbsp;ET</b> · 21:00&nbsp;CET · US&nbsp;TV:&nbsp;PARAMOUNT+</div></td></tr><tr><td style="padding:11px 0;border-bottom:1px solid #D8DFEC;"><div style="font-family:Arial,Helvetica,sans-serif;font-weight:bold;font-size:18px;color:#0B1020;line-height:1.2;margin:0 0 3px;">Genoa <span style="display:inline-block;vertical-align:2px;margin-left:6px;padding:1px 5px 0;border:1px solid #C4CDDE;border-radius:3px;font-family:'Courier New',Courier,monospace;font-size:11px;letter-spacing:1px;color:#5A647E;">HOME</span></div><div style="font-family:'Courier New',Courier,monospace;font-size:13px;color:#5A647E;line-height:1.6;">SAT,&nbsp;NOV&nbsp;28 · SERIE&nbsp;A · MATCHDAY&nbsp;13</div><div style="font-family:'Courier New',Courier,monospace;font-size:13px;color:#3D465C;line-height:1.6;"><b style='color:#0B1020'>2:45&nbsp;PM&nbsp;ET</b> · 20:45&nbsp;CET · US&nbsp;TV:&nbsp;PARAMOUNT+</div></td></tr><tr><td style="padding:11px 0;border-bottom:1px solid #D8DFEC;"><div style="font-family:Arial,Helvetica,sans-serif;font-weight:bold;font-size:18px;color:#0B1020;line-height:1.2;margin:0 0 3px;">Genoa <span style="display:inline-block;vertical-align:2px;margin-left:6px;padding:1px 5px 0;border:1px solid #C4CDDE;border-radius:3px;font-family:'Courier New',Courier,monospace;font-size:11px;letter-spacing:1px;color:#5A647E;">HOME</span></div><div style="font-family:'Courier New',Courier,monospace;font-size:13px;color:#5A647E;line-height:1.6;">TUE,&nbsp;DEC&nbsp;1 · COPPA&nbsp;ITALIA · ROUND&nbsp;OF&nbsp;16</div><div style="font-family:'Courier New',Courier,monospace;font-size:13px;color:#3D465C;line-height:1.6;"><b style='color:#0B1020'>3:00&nbsp;PM&nbsp;ET</b> · 21:00&nbsp;CET · US&nbsp;TV:&nbsp;NOT&nbsp;YET&nbsp;PUBLISHED</div></td></tr><tr><td style="padding:11px 0;border-bottom:1px solid #D8DFEC;"><div style="font-family:Arial,Helvetica,sans-serif;font-weight:bold;font-size:18px;color:#0B1020;line-height:1.2;margin:0 0 3px;">Frosinone <span style="display:inline-block;vertical-align:2px;margin-left:6px;padding:1px 5px 0;border:1px solid #C4CDDE;border-radius:3px;font-family:'Courier New',Courier,monospace;font-size:11px;letter-spacing:1px;color:#5A647E;">AWAY</span></div><div style="font-family:'Courier New',Courier,monospace;font-size:13px;color:#5A647E;line-height:1.6;">SAT,&nbsp;DEC&nbsp;5 · SERIE&nbsp;A · MATCHDAY&nbsp;14</div><div style="font-family:'Courier New',Courier,monospace;font-size:13px;color:#3D465C;line-height:1.6;"><b style='color:#0B1020'>12:00&nbsp;PM&nbsp;ET</b> · 18:00&nbsp;CET · US&nbsp;TV:&nbsp;PARAMOUNT+</div></td></tr><tr><td style="padding:11px 0;border-bottom:1px solid #D8DFEC;"><div style="font-family:Arial,Helvetica,sans-serif;font-weight:bold;font-size:18px;color:#0B1020;line-height:1.2;margin:0 0 3px;">Borussia Dortmund <span style="display:inline-block;vertical-align:2px;margin-left:6px;padding:1px 5px 0;border:1px solid #C4CDDE;border-radius:3px;font-family:'Courier New',Courier,monospace;font-size:11px;letter-spacing:1px;color:#5A647E;">AWAY</span></div><div style="font-family:'Courier New',Courier,monospace;font-size:13px;color:#5A647E;line-height:1.6;">WED,&nbsp;DEC&nbsp;9 · CHAMPIONS&nbsp;LEAGUE · MATCHDAY&nbsp;6</div><div style="font-family:'Courier New',Courier,monospace;font-size:13px;color:#3D465C;line-height:1.6;"><b style='color:#0B1020'>3:00&nbsp;PM&nbsp;ET</b> · 21:00&nbsp;CET · US&nbsp;TV:&nbsp;PARAMOUNT+</div></td></tr></table></td></tr><tr><td style="background:#ffffff;padding:4px 28px 6px;"><p style="margin:8px 0 0px;font-family:'Courier New',Courier,monospace;font-size:13px;line-height:1.6;color:#5A647E;font-weight:normal;">Kickoff times are the club’s, converted from Milan time on each match date. United States listings are Paramount+’s, under the CBS Sports rights to Serie A and the Champions League. The Coppa Italia tie has none published yet.</p><p style="margin:18px 0 0px;font-family:Georgia,'Times New Roman',serif;font-size:17px;line-height:1.6;color:#3D465C;font-weight:normal;">Reply to this email with one word — which of today’s items should I chase tomorrow? — and tell me where you’re reading from. I read every one.</p><p style="margin:14px 0 0px;font-family:'Courier New',Courier,monospace;font-size:13px;line-height:1.6;color:#5A647E;font-weight:normal;">Written every morning by an Inter fan in New Jersey who reads the Italian press so you don’t have to.</p><p style="margin:10px 0 0px;font-family:'Courier New',Courier,monospace;font-size:13px;line-height:1.6;color:#5A647E;font-weight:normal;">Know an Interista? Forward this email — they can subscribe at <a href="https://www.nerazzurridaily.com/go/forward/?ed=74" style="color:#0A2A66;">nerazzurridaily.com/subscribe</a>.</p><p style="margin:10px 0 0px;font-family:'Courier New',Courier,monospace;font-size:13px;line-height:1.6;color:#5A647E;font-weight:normal;">Was today worth your 90 seconds? <a href="https://www.nerazzurridaily.com/go/vote/?ed=74&v=yes" style="color:#0A2A66;font-weight:bold;">Yes</a> &middot; <a href="https://www.nerazzurridaily.com/go/vote/?ed=74&v=no" style="color:#0A2A66;font-weight:bold;">Not today</a></p><div style="margin-top:18px;"><div style="font-family:Arial,Helvetica,sans-serif;font-size:13px;font-weight:bold;letter-spacing:1.5px;color:#2B5BB8;margin-bottom:2px;">NEXT EDITION</div><div style="font-family:Arial,Helvetica,sans-serif;font-weight:bold;font-size:18px;color:#0B1020;line-height:1.25;">SUNDAY, NOVEMBER 15 — BRUSSELS AND THE BREDA</div></div><p style="margin:16px 0 0px;font-family:'Courier New',Courier,monospace;font-size:13px;line-height:1.6;color:#5A647E;font-weight:normal;">FOLLOW <a href="https://www.youtube.com/@nerazzurridaily" style="color:#0A2A66;">YouTube</a> · <a href="https://www.tiktok.com/@nerazzurridaily" style="color:#0A2A66;">TikTok</a></p></td></tr><tr><td style="background:#EEF1F6;padding:2px 28px 18px;margin-top:22px;"><table role="presentation" width="100%" cellpadding="0" cellspacing="0" border="0"><tr><td style="padding:16px 0 8px;border-bottom:1px solid #D8DFEC;"><span style="font-family:Arial,Helvetica,sans-serif;font-weight:bold;font-size:14px;letter-spacing:1px;color:#0B1020;">SOURCES</span></td></tr><tr><td style="padding:0;font-size:0;line-height:0;height:3px;"><table role="presentation" cellpadding="0" cellspacing="0" border="0"><tr><td width="36" height="3" style="background:#2B5BB8;font-size:0;line-height:0;">&nbsp;</td></tr></table></td></tr></table><p style="margin:8px 0 0px;font-family:'Courier New',Courier,monospace;font-size:13px;line-height:1.8;color:#3D465C;font-weight:normal;"><a href="https://www.inter.it/en/news/inter-players-international-duty-november-2026" style="color:#0A2A66;text-decoration:none;border-bottom:1px solid #C4CDDE;"><b style="color:#0B1020;">Inter.it</b> · The Nerazzurri on international duty</a><br>
 <a href="https://sport.sky.it/calcio/nations-league/2026/11/12/italia-nations-league-qualificazione-quarti-se" style="color:#0A2A66;text-decoration:none;border-bottom:1px solid #C4CDDE;"><b style="color:#0B1020;">Sky Sport Italia</b> · Italia in Nations League, gli azzurri si qualificano ai quarti se…</a><br>
 <a href="https://www.inter.it/it/notizie/guida-inter-juventus-women-dove-vedere-tv" style="color:#0A2A66;text-decoration:none;border-bottom:1px solid #C4CDDE;"><b style="color:#0B1020;">Inter.it</b> · Women, domenica Inter-Juventus allo stadio Breda</a><br>
 <a href="https://www.figc.it/it/serie-a-women/news/domenica-15-novembre-inter-juventus-in-diretta-su-rai-2-il-big-match-si-giochera-al-breda-di-sesto-san-giovanni-snw1rd3a" style="color:#0A2A66;text-decoration:none;border-bottom:1px solid #C4CDDE;"><b style="color:#0B1020;">FIGC</b> · Domenica 15 novembre Inter-Juventus in diretta su Rai 2</a><br>
